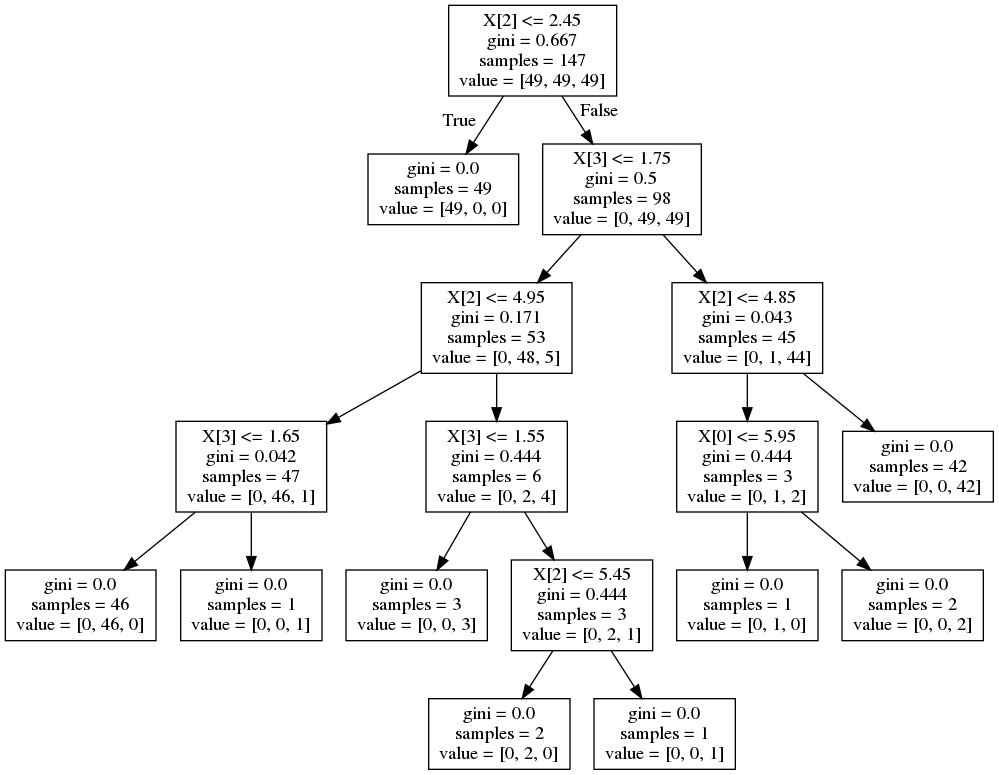
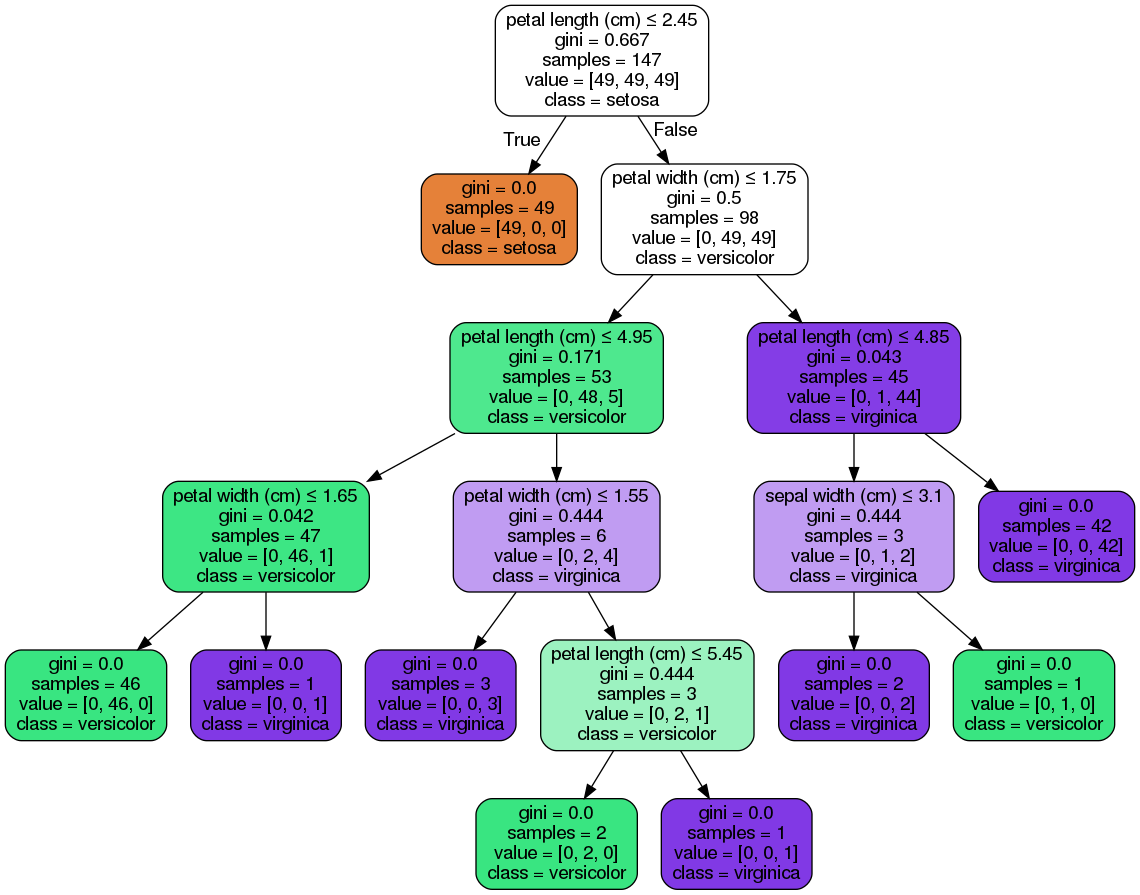
Make the graph more readable, as per actual tutorial

Changed region(s): [[0.0, 0.0, 1.0, 1.0]]

diff --git a/lesson 2.py b/lesson 2.py
@@ -41,7 +41,11 @@ print clf.predict(testing_data)
 from sklearn.externals.six import StringIO
 import pydot
 dot_data = StringIO()
-tree.export_graphviz(clf, out_file=dot_data)
+tree.export_graphviz(clf, out_file=dot_data,
+                     feature_names=iris.feature_names,
+					 class_names=iris.target_names,
+					 filled=True, rounded=True,
+					 special_characters=True)
 (graph,) = pydot.graph_from_dot_data(dot_data.getvalue())
 
 graph.write_pdf("iris.pdf")
